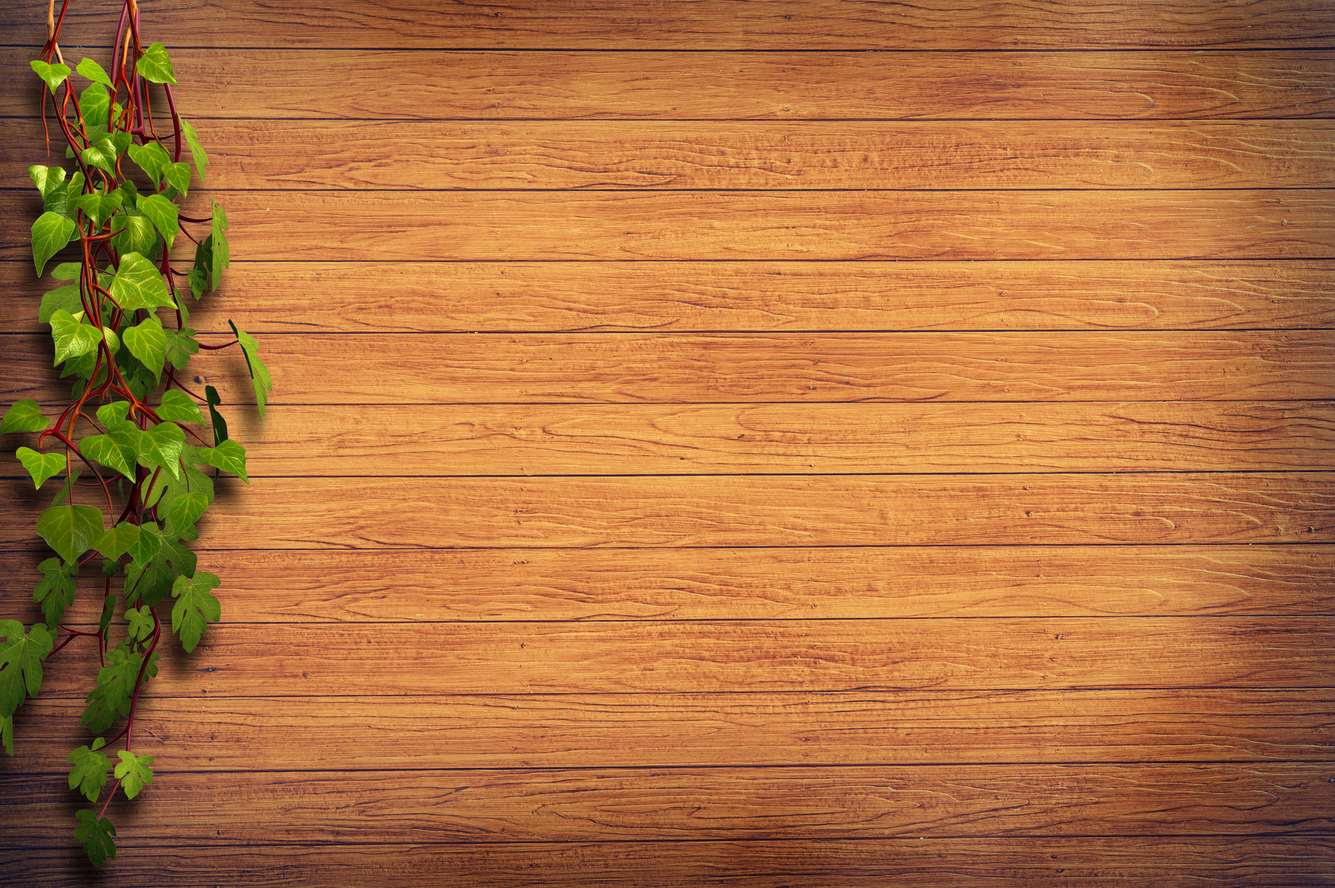
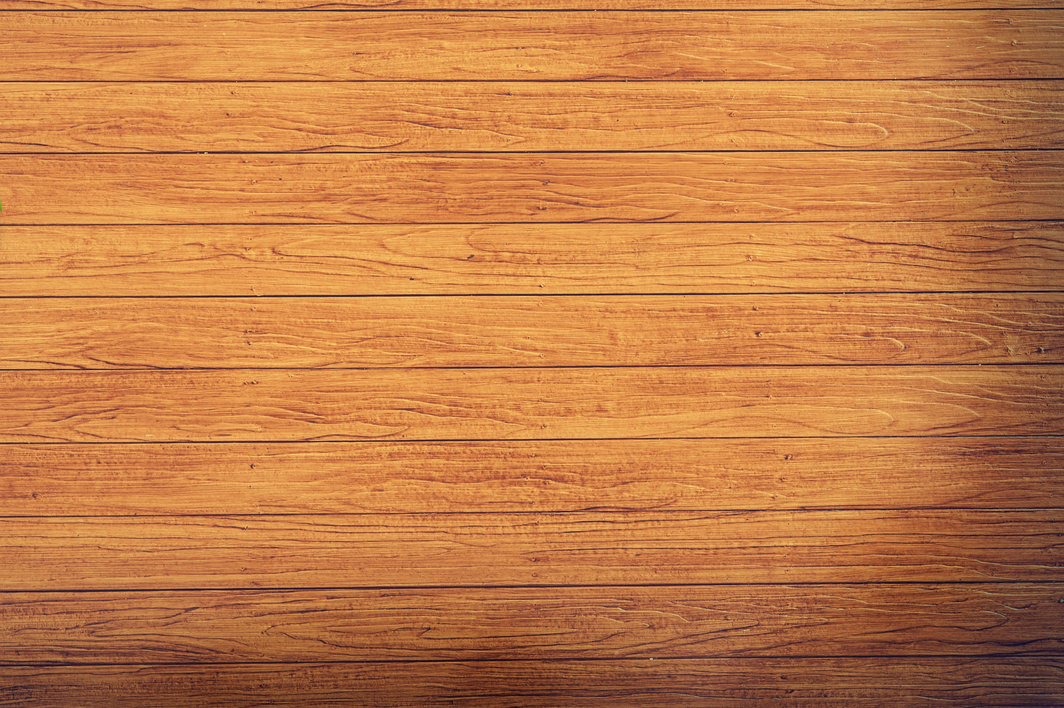
view changes + Tooltip

diff --git a/presentationlayer/src/main/resources/lobby/LobbyView.css b/presentationlayer/src/main/resources/lobby/LobbyView.css
@@ -102,7 +102,7 @@
 }
 .root{
 
-    -fx-background-image: url("thumb-1920-590579.jpg");
+    -fx-background-image: url("pexels-photo-207301.jpeg");
     -fx-background-size: cover;
 
 }

diff --git a/presentationlayer/src/main/java/lobby/LobbyView.java b/presentationlayer/src/main/java/lobby/LobbyView.java
@@ -6,11 +6,7 @@ import javafx.collections.ObservableList;
 import javafx.geometry.Insets;
 import javafx.geometry.Pos;
 import javafx.scene.Scene;
-import javafx.scene.control.Button;
-import javafx.scene.control.Label;
-import javafx.scene.control.ListView;
-import javafx.scene.control.ScrollPane;
-import javafx.scene.control.TextField;
+import javafx.scene.control.*;
 import javafx.scene.layout.BorderPane;
 import javafx.scene.layout.GridPane;
 import javafx.scene.layout.HBox;
@@ -33,6 +29,9 @@ public class LobbyView extends View<LobbyModel> {
     protected Button btnLogout;
     protected TextField lblPlayer;
     protected TextField txtChat;
+    protected TextField textFieldGameSettings;
+    protected TextField textFieldRound;
+    protected ChoiceBox choiceBox;
 
     protected ObservableList<String> observablePlayerList = FXCollections.observableArrayList();
 
@@ -61,9 +60,9 @@ public class LobbyView extends View<LobbyModel> {
 
         // root Layout
         root.setBottom(addGridPane());
-        root.setCenter(addVBoxCenter());
+        root.setCenter(addMenu());
         root.setRight(addClientList());
-        root.setTop(addMenu());
+        root.setTop( addVBoxGameSettings());
         root.setLeft(addGameSettings());
 
         // For multi language
@@ -83,6 +82,7 @@ public class LobbyView extends View<LobbyModel> {
     public HBox addMenu(){
 
         HBox hBox = new HBox(  );
+        hBox.setAlignment( Pos.CENTER );
         // Test button
         btnGameView = new Button("GameView");
 
@@ -109,22 +109,50 @@ public class LobbyView extends View<LobbyModel> {
     }
 
 
-    public VBox addVBoxCenter(){
+    public VBox addVBoxGameSettings(){
 
         VBox vBox = new VBox(  );
         HBox hBox = new HBox(  );
 
+        vBox.setSpacing( 50 );
+
+        // GamesRules
+
+        this.textFieldGameSettings = new TextField(  );
+        this.textFieldGameSettings.setEditable( false );
+        this.textFieldGameSettings.setMaxWidth( 300 );
+
+        HBox hboxRounds = new HBox(  );
+        hboxRounds.setSpacing( 50 );
+        hboxRounds.setAlignment( Pos.CENTER_LEFT );
 
 
+        this.textFieldRound = new TextField(  );
+        this.textFieldRound.setEditable( false );
+        this.textFieldRound.setMaxWidth( 300 );
 
-        hBox.setAlignment( Pos.BOTTOM_CENTER );
+        this.choiceBox = new ChoiceBox( FXCollections.observableArrayList(
+            10,11,12,13,14,15,16,17,18,19,20,21,22,23,24,25,26,27,28,29,30
+        ) );
+        this.choiceBox.setMaxWidth( 300 );
+
+        hboxRounds.getChildren().addAll( textFieldRound,choiceBox );
+
+
+        vBox.getChildren().addAll( textFieldGameSettings, hboxRounds);
+
+
+        // Buttons for GameLobby
+
+        hBox.setAlignment( Pos.CENTER_LEFT );
         hBox.setSpacing(100);
         btnStart = new Button();
+        btnStart.setTooltip(new Tooltip("You can only start the game, if your are the server :)"));
         btnLogout = new Button( );
         hBox.getChildren().addAll( btnStart, btnLogout );
 
         vBox.getChildren().addAll( hBox );
-        vBox.setAlignment( Pos.BOTTOM_CENTER );
+        vBox.setAlignment( Pos.CENTER_LEFT );
 
         return  vBox;
     }
@@ -183,6 +211,8 @@ public class LobbyView extends View<LobbyModel> {
         this.btnStart.setText( getText("lobbyview.startgame" ));
         this.btnLogout.setText( getText( "lobbyview.logout" ) );
         this.lblPlayer.setText( getText( "lobbyview.lblPlayer" ) );
+        this.textFieldGameSettings.setText( getText( "lobbyview.GameSettings" ) );
+        this.textFieldRound.setText( getText( "lobbyview.rounds" ) );
     }
 
     public void start() {
